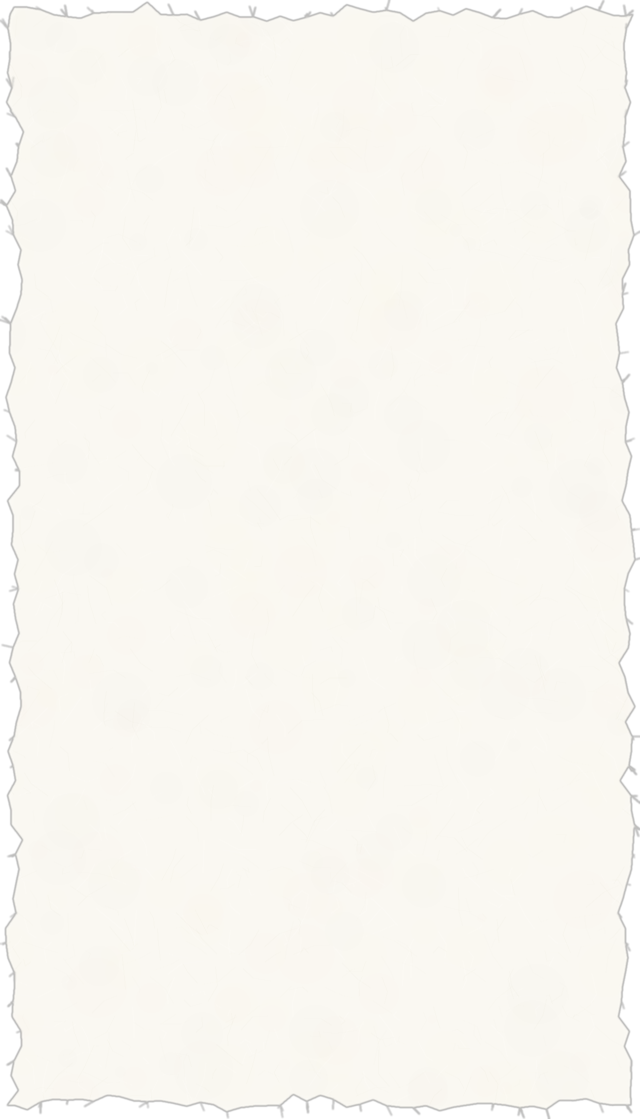
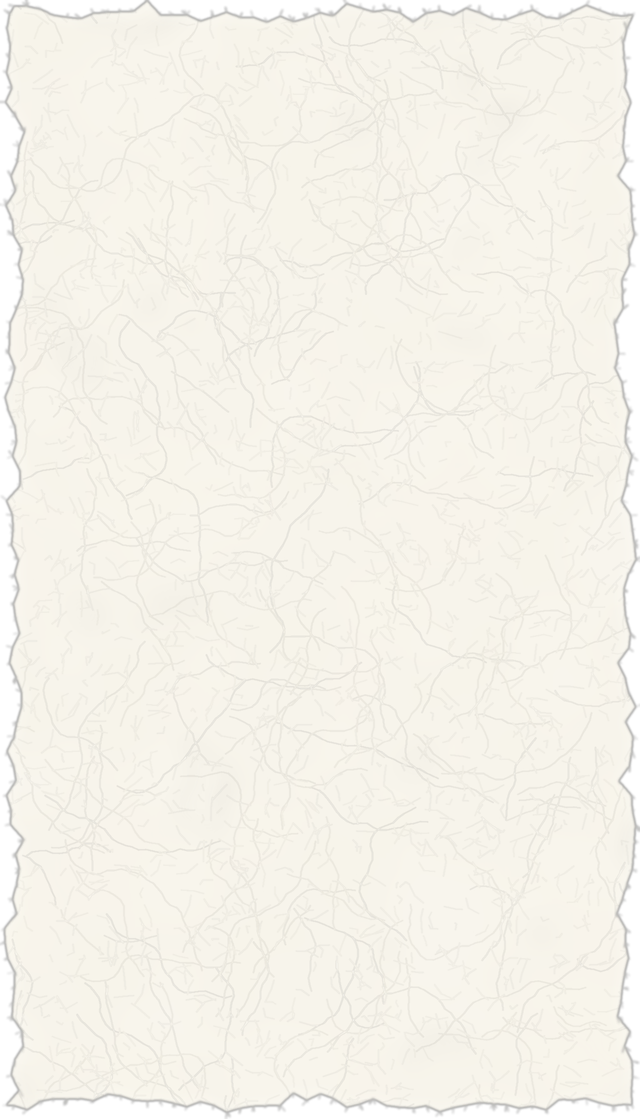
fix: 名刺・バッジの磨き込み4点
- 和紙を雲竜紙風に作り直し(楮の長い繊維・すきムラ・柔らかい耳)
- 「名 刺」の文字が消えるバグ根治(スクロール枠内に置くと枠上の文字が切れていた→枠外に)
- 名刺→「マイページを見る」→また名刺が出る二重表示バグ根治(sessionStorageで1回スキップ)
- バッジ再デザイン: ただの四角→丸ピル+グラデ+ハイライト(Sir=黒金/プレミアム=金/村人=若草)。
  「セカイムラ◯◯の村人」に「の」を追加(名刺/マイページ/QRページ)

diff --git a/src/components/MeishiModal.tsx b/src/components/MeishiModal.tsx
@@ -84,21 +84,23 @@ export function MeishiModal({ username, onClose }: { username: string; onClose: 
         {/* 透いた白和紙の台紙（周囲ほころび・透過PNG） */}
         <img src="/meishi-washi-white.png" alt="" className="pointer-events-none absolute inset-0 h-full w-full" style={{ objectFit: "fill" }} />
 
-        {/* 和紙の内側: 細い枠線（余白を空けて）。枠線上トップに「名 刺」 */}
-        <div className="relative m-[26px] flex flex-col overflow-y-auto border border-[#b8ae96] px-4 pb-4 pt-5" style={{ maxHeight: "calc(84vh - 52px)", minHeight: 420 }}>
+        {/* 和紙の内側: 細い枠線（余白を空けて）。枠線上トップに「名 刺」。
+            ※「名 刺」はスクロール枠の外側に置く（overflow内に入れると枠の上の文字が切れて消えるバグがあった） */}
+        <div className="relative m-[26px]" style={{ maxHeight: "calc(84vh - 52px)" }}>
           <span
-            className="absolute -top-[9px] left-1/2 -translate-x-1/2 px-2 text-[10px] font-bold tracking-[6px] text-[#8a7f66]"
-            style={{ background: "#faf8f2" }}
+            className="absolute -top-[8px] left-1/2 z-10 -translate-x-1/2 px-2 text-[10px] font-bold tracking-[6px] text-[#8a7f66]"
+            style={{ background: "#f7f4ec" }}
           >
             名 刺
           </span>
           <button
             onClick={onClose}
             aria-label="閉じる"
-            className="absolute right-1.5 top-1.5 flex h-6 w-6 items-center justify-center rounded-full text-[13px] text-[#8a7f66]"
+            className="absolute right-1.5 top-1.5 z-10 flex h-6 w-6 items-center justify-center rounded-full text-[13px] text-[#8a7f66]"
           >
             ×
           </button>
+          <div className="flex flex-col overflow-y-auto border border-[#b8ae96] px-4 pb-4 pt-5" style={{ maxHeight: "calc(84vh - 52px)", minHeight: 420 }}>
 
           {p === undefined ? (
             <div className="flex h-48 items-center justify-center">
@@ -150,8 +152,11 @@ export function MeishiModal({ username, onClose }: { username: string; onClose: 
                   </span>
                 )}
                 {p.murabito && p.prefecture && (
-                  <span className="rounded-full border border-[#9ab890] bg-[#eef6ea] px-2.5 py-0.5 text-[10.5px] font-bold text-[#3c6a2c]">
-                    セカイムラ{p.prefecture.replace(/[都府県]$/, "")}村人
+                  <span
+                    className="rounded-full px-2.5 py-0.5 text-[10.5px] font-bold text-[#1e5c34]"
+                    style={{ background: "linear-gradient(135deg,#eef8ee,#cfe8d2)", border: "1px solid #a8d0b0" }}
+                  >
+                    セカイムラ{p.prefecture.replace(/[都府県]$/, "")}の村人
                   </span>
                 )}
               </div>
@@ -217,10 +222,12 @@ export function MeishiModal({ username, onClose }: { username: string; onClose: 
                 </button>
               )}
 
-              {/* マイページへ */}
+              {/* マイページへ。名刺から飛んだ時はマイページ側の「まず名刺」自動表示をスキップ
+                  (名刺→マイページ→また名刺 の二重表示バグ対策) */}
               {p.username && (
                 <button
                   onClick={() => {
+                    try { sessionStorage.setItem("meishi-skip-once", p.username!); } catch { /* noop */ }
                     onClose();
                     router.push(`/u/${p.username}`);
                   }}
@@ -232,6 +239,7 @@ export function MeishiModal({ username, onClose }: { username: string; onClose: 
               )}
             </>
           )}
+          </div>
         </div>
       </div>
     </div>,

diff --git a/src/app/u/[username]/page.tsx b/src/app/u/[username]/page.tsx
@@ -193,6 +193,14 @@ export default function UserPage() {
   useEffect(() => {
     if (!profile || meishiShown.current || !authReady) return;
     if (me?.id === profile.id) return;
+    // 名刺モーダルの「マイページを見る」から来た直後は、また名刺が出る二重表示になるので1回だけスキップ
+    try {
+      if (sessionStorage.getItem("meishi-skip-once") === profile.username) {
+        sessionStorage.removeItem("meishi-skip-once");
+        meishiShown.current = true;
+        return;
+      }
+    } catch { /* noop */ }
     meishiShown.current = true;
     setShowMeishi(true);
     // eslint-disable-next-line react-hooks/exhaustive-deps
@@ -393,28 +401,41 @@ export default function UserPage() {
             </>
           )}
         </div>
-        <span className="ml-2 inline-flex flex-col items-start gap-1 align-top pt-0.5">
+        <span className="ml-2 inline-flex flex-col items-end gap-1 align-top pt-0.5">
           {profile.id === SIR_USER_ID ? (
             <span
-              className="px-2 py-0.5 text-[9.5px] font-extrabold tracking-[1px]"
-              style={{ background: "#faf6ea", color: "#141414", border: "2px solid #141414" }}
+              className="rounded-full px-2.5 py-1 text-[9.5px] font-extrabold tracking-[1.5px]"
+              style={{
+                background: "linear-gradient(135deg,#1c1c1c,#000)",
+                color: "#f6e9c4",
+                border: "1px solid #3a3a3a",
+                boxShadow: "0 2px 8px rgba(0,0,0,.35), inset 0 1px 0 rgba(255,255,255,.14)",
+              }}
             >
-              Warawa-Sir
+              ✦ Warawa-Sir
             </span>
           ) : isWara && profile.member_no != null ? (
             <span
-              className="num px-2 py-0.5 text-[9.5px] font-extrabold tracking-wider text-[#7a5a10]"
-              style={{ background: "linear-gradient(135deg,#f8e8b0,#e8cc70)", border: "1px solid #d4b96a" }}
+              className="num rounded-full px-2.5 py-1 text-[9.5px] font-extrabold tracking-wide text-[#6a4c08]"
+              style={{
+                background: "linear-gradient(135deg,#faf0c8,#eccf74 55%,#f6e6a8)",
+                border: "1px solid #d4b96a",
+                boxShadow: "0 2px 6px rgba(180,140,50,.28), inset 0 1px 0 rgba(255,255,255,.7)",
+              }}
             >
-              わらわ〜プレミアムNo.{profile.member_no}
+              ✦ わらわ〜プレミアム No.{profile.member_no}
             </span>
           ) : null}
           {profile.murabito && (
             <span
-              className="px-2 py-0.5 text-[9.5px] font-extrabold"
-              style={{ background: "#e8f4ec", color: "#2a7a48", border: "1px solid #bcdcc8" }}
+              className="rounded-full px-2.5 py-1 text-[9.5px] font-extrabold text-[#1e5c34]"
+              style={{
+                background: "linear-gradient(135deg,#eef8ee,#cfe8d2)",
+                border: "1px solid #a8d0b0",
+                boxShadow: "0 2px 6px rgba(60,130,80,.18), inset 0 1px 0 rgba(255,255,255,.8)",
+              }}
             >
-              セカイムラ{(profile.prefecture ?? "").replace(/[都府県]$/, "") || ""}村人
+              セカイムラ{(profile.prefecture ?? "").replace(/[都府県]$/, "") || ""}の村人
             </span>
           )}
         </span>

diff --git a/src/app/meishi/[id]/page.tsx b/src/app/meishi/[id]/page.tsx
@@ -71,7 +71,7 @@ export default function MeishiExchangePage() {
             <div className="min-w-0 flex-1 pb-1">
               {other.murabito && (
                 <span className="rounded-full px-2 py-0.5 text-[9px] font-extrabold" style={{ background: "#e8f4ec", color: "#2a7a48", border: "1px solid #bcdcc8" }}>
-                  セカイムラ{(other.prefecture ?? "").replace(/[都府県]$/, "")}村人
+                  セカイムラ{(other.prefecture ?? "").replace(/[都府県]$/, "")}の村人
                 </span>
               )}
             </div>
